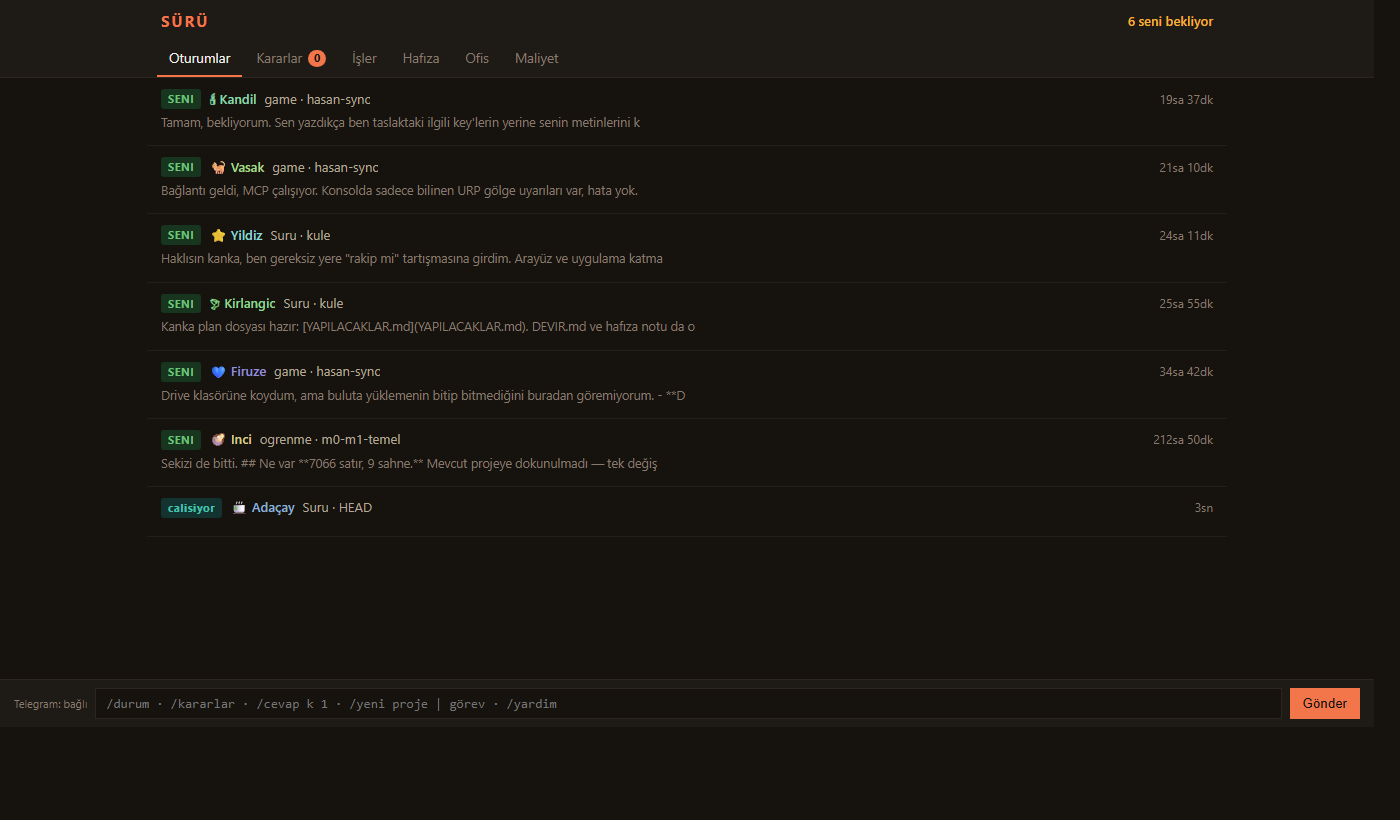
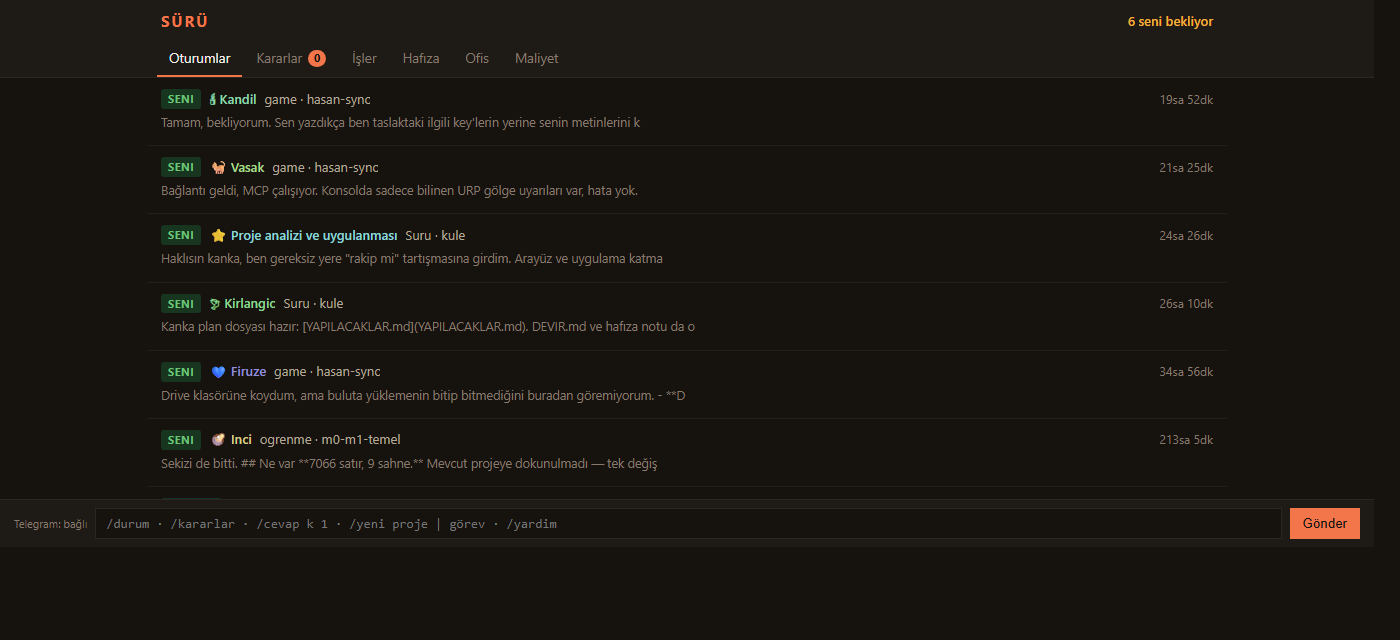
Ajan adi gorevden: is adi / oturum basligi, kadro adi yedek
- kisilik.js: gorevEtiketi, ajanKimligi({isAd,hedefAd,baslik}), kimlikCoz(db), basligiAnlamli
- tum tuketiciler kimlikCoz kullaniyor; simge ve renk kadrodan
- ofis: masa etiketinde proje oneki atilir; komuta: ajan · is tekrari kaldirildi
- 404 test, panel/ofis ekran goruntuleri yenilendi

diff --git a/src/kisilik.js b/src/kisilik.js
@@ -87,9 +87,80 @@ export function kimlikAnahtari({ isId = null, sessionId = null } = {}) {
   return isId || sessionId || '';
 }
 
-/** Bir kosu/karar/olay icin dogru kimlik. */
-export function ajanKimligi(kaynak, secenekler) {
-  return kisilik(kimlikAnahtari(kaynak), secenekler);
+/**
+ * Gorev etiketi: ajanin adi yaptigi isten gelsin.
+ *
+ * Kadro adi (Kekik, Vasak...) rastgele; panelde "Vasak seni bekliyor" gorunce
+ * hangi is oldugunu hatirlamak icin ikinci bir bakis gerekiyordu. Etiket
+ * dogrudan isten: is adi varsa ondan, yoksa oturum basligindan. Kadro adi
+ * `takma` olarak kalir (simge ve renk zaten oradan).
+ *
+ *   'livedub-test-kapsami'  -> 'Livedub test kapsami'
+ *   '_denetci:<id>'          -> 'Denetçi · <hedef isin etiketi>'
+ *   '_damitma:livedub'       -> 'Damıtma · livedub'
+ *   (is yok, baslik var)     -> baslik, 34 karaktere kirpilmis
+ */
+const ETIKET_EN = 34;
+
+function slugAc(s) {
+  const t = String(s ?? '').replace(/[-_]+/g, ' ').replace(/\s+/g, ' ').trim();
+  return t ? t.charAt(0).toUpperCase() + t.slice(1) : '';
+}
+
+function kirp(s, n = ETIKET_EN) {
+  const t = String(s ?? '').replace(/\s+/g, ' ').trim();
+  return t.length > n ? t.slice(0, n - 1).trimEnd() + '…' : t;
+}
+
+export function gorevEtiketi({ isAd = null, hedefAd = null, baslik = null } = {}) {
+  const ad = String(isAd ?? '');
+  if (ad) {
+    const m = /^_denetci:(.+)$/.exec(ad);
+    if (m) return 'Denetçi · ' + (hedefAd ? kirp(slugAc(hedefAd), ETIKET_EN - 10) : m[1].slice(0, 6));
+    if (ad.startsWith('_damitma:')) return 'Damıtma · ' + kirp(ad.slice('_damitma:'.length), ETIKET_EN - 10);
+    return kirp(slugAc(ad));
+  }
+  if (basligiAnlamli(baslik)) return kirp(baslik);
+  return null;
+}
+
+/**
+ * Oturum basligi cogu zaman ilk mesajdan turetiliyor: "selam", "merhaba",
+ * "devam" gibi bir baslik isi anlatmaz, kadro adindan daha kotu bir etikettir.
+ * Kisa ya da selamlasma olan basliklar yok sayilir.
+ */
+const SELAM = /^(selam|merhaba|mrb|hey|hi|hello|kanka|abi|devam|test|deneme|naber|nasilsin|nasılsın)\b/i;
+export function basligiAnlamli(baslik) {
+  const t = String(baslik ?? '').replace(/\s+/g, ' ').trim();
+  if (t.length < 12) return false;
+  return !SELAM.test(t);
+}
+
+/**
+ * Bir kosu/karar/olay icin dogru kimlik.
+ * kaynak.isAd / hedefAd / baslik verilirse ad gorev etiketi olur, kadro adi
+ * `takma`ya iner. Verilmezse eski davranis: kadro kimligi oldugu gibi.
+ */
+export function ajanKimligi(kaynak = {}, secenekler) {
+  const k = kisilik(kimlikAnahtari(kaynak), secenekler);
+  const etiket = gorevEtiketi(kaynak);
+  return etiket ? { ...k, ad: etiket, takma: k.ad } : k;
+}
+
+/**
+ * Veritabanindan bakarak kimlik: is adi (denetci ise hedef isin adi) ve
+ * oturum basligi cozulur, sonra ajanKimligi. Sorgular kucuk; cagiran
+ * tarafta zaten is/oturum satiri varsa isAd/baslik dogrudan verilebilir.
+ */
+export function kimlikCoz(db, { isId = null, sessionId = null, isAd = null, baslik = null } = {}, secenekler) {
+  let ad = isAd, hedefAd = null, b = baslik;
+  try {
+    if (isId && !ad) ad = db.prepare('SELECT ad FROM isler WHERE id = ?').get(isId)?.ad ?? null;
+    const m = ad ? /^_denetci:(.+)$/.exec(ad) : null;
+    if (m) hedefAd = db.prepare('SELECT ad FROM isler WHERE id = ?').get(m[1])?.ad ?? null;
+    if (!ad && !b && sessionId) b = db.prepare('SELECT title FROM sessions WHERE session_id = ?').get(sessionId)?.title ?? null;
+  } catch { /* tablo yoksa (eski sema / test) kadro kimligine dus */ }
+  return ajanKimligi({ isId, sessionId, isAd: ad, hedefAd, baslik: b }, secenekler);
 }
 
 export const KADRO_BOYU = KADRO.length;

diff --git a/test/kisilik.test.js b/test/kisilik.test.js
@@ -1,6 +1,6 @@
 import { test } from 'node:test';
 import assert from 'node:assert/strict';
-import { kisilik, kadroCikar, ajanKimligi, kimlikAnahtari, KADRO_BOYU } from '../src/kisilik.js';
+import { kisilik, kadroCikar, ajanKimligi, kimlikAnahtari, gorevEtiketi, basligiAnlamli, KADRO_BOYU } from '../src/kisilik.js';
 
 test('ayni oturum her zaman ayni kimligi alir', () => {
   const a = kisilik('a3f9b2c1-0000-0000-0000-000000000001');
@@ -65,4 +65,40 @@ test('is yoksa oturum kimligi kullanilir', () => {
   assert.equal(kimlikAnahtari({ sessionId: 'o1' }), 'o1');
   assert.equal(kimlikAnahtari({ isId: 'i1', sessionId: 'o1' }), 'i1');
   assert.deepEqual(ajanKimligi({ sessionId: 'o1' }), kisilik('o1'));
+});
+
+// --- Gorev etiketi: ad isten gelir ---
+
+test('is adi varsa ajan adi gorev etiketi olur, kadro adi takmaya iner', () => {
+  const k = ajanKimligi({ isId: 'is-1', isAd: 'livedub-test-kapsami' });
+  assert.equal(k.ad, 'Livedub test kapsami');
+  assert.equal(k.takma, kisilik('is-1').ad);
+  assert.equal(k.simge, kisilik('is-1').simge, 'simge ve renk kadrodan kalir');
+});
+
+test('denetci ve damitma isleri rolunu ve hedefini soyler', () => {
+  assert.equal(ajanKimligi({ isId: 'd', isAd: '_denetci:abc', hedefAd: 'fin-logic-saglamlastir' }).ad,
+    'Denetçi · Fin logic saglamlastir');
+  assert.equal(ajanKimligi({ isId: 'd', isAd: '_damitma:livedub' }).ad, 'Damıtma · livedub');
+});
+
+test('is yoksa oturum basligi, o da yoksa kadro adi', () => {
+  const uzun = 'Profil README ve repo aciklamalarini iki dilde yeniden yaz';
+  const k = ajanKimligi({ sessionId: 'o1', baslik: uzun });
+  assert.ok(k.ad.length <= 34 && k.ad.endsWith('…'), 'uzun baslik kirpilir: ' + k.ad);
+  assert.equal(ajanKimligi({ sessionId: 'o1', baslik: '  ' }).ad, kisilik('o1').ad);
+});
+
+test('gorevEtiketi: etiket yoksa null', () => {
+  assert.equal(gorevEtiketi({}), null);
+  assert.equal(gorevEtiketi({ isAd: 'a_b-c' }), 'A b c');
+});
+
+test('selamlasma ya da cok kisa baslik etiket olmaz, kadro adina dusulur', () => {
+  // Saha: oturum basligi ilk mesajdan geliyor; panelde yedi tane "Selam" gorunmustu.
+  for (const b of ['Selam', 'merhaba kanka nasilsin', 'devam', 'Hello there, quick question']) {
+    assert.equal(basligiAnlamli(b), false, b);
+    assert.equal(ajanKimligi({ sessionId: 'o9', baslik: b }).ad, kisilik('o9').ad, b);
+  }
+  assert.equal(basligiAnlamli('Proje analizi ve uygulanmasi'), true);
 });

diff --git a/src/bildirim.js b/src/bildirim.js
@@ -10,7 +10,7 @@
 
 import { OLAY, oku as olayOku, yaz as olayYaz } from './events.js';
 import { kvOku, kvYaz } from './db.js';
-import { kisilik, ajanKimligi } from './kisilik.js';
+import { ajanKimligi, kimlikCoz } from './kisilik.js';
 
 const IMLEC = 'bildirim.imlec';
 
@@ -44,7 +44,9 @@ export function sessizMi(simdi, pencere) {
  * sonGonderim : Map<'oturum:durum', zaman> - soguma icin
  * Doner: { gonderilecek: [...], ozet: {...}|null, sonGonderim: guncellenmis Map }
  */
-export function kararVer(olaylar, { ayarlar, sonGonderim = new Map(), simdi = Date.now() } = {}) {
+export function kararVer(olaylar, { ayarlar, sonGonderim = new Map(), simdi = Date.now(),
+  // Kimlik cozucu: sunucu veritabanindan gorev etiketi verir; saf testlerde kadro kimligi.
+  kimlik = (o) => ajanKimligi({ isId: o.data?.isId, sessionId: o.sessionId }) } = {}) {
   const a = ayarlar.bildirim;
   const sogumaMs = a.sogumaDk * 60_000;
   const sessiz = sessizMi(simdi, a.sessizSaatler);
@@ -59,7 +61,7 @@ export function kararVer(olaylar, { ayarlar, sonGonderim = new Map(), simdi = Da
       const once = yeniSon.get(anahtar);
       if (once != null && simdi - once < sogumaMs) continue;
       yeniSon.set(anahtar, simdi);
-      const k = ajanKimligi({ isId: o.data?.isId, sessionId: o.sessionId });
+      const k = kimlik(o);
       gonderilecek.push({
         seq: o.seq, at: o.at, sessionId: o.sessionId, durum: 'karar', onem: 'acil',
         // Kanal dugme kurabilsin diye (Telegram): karari tek dokunusla cevaplamak.
@@ -85,7 +87,7 @@ export function kararVer(olaylar, { ayarlar, sonGonderim = new Map(), simdi = Da
     if (once != null && simdi - once < sogumaMs) continue;
     yeniSon.set(anahtar, simdi);
 
-    const k = kisilik(o.sessionId);
+    const k = kimlik(o);
     const govdeParcalari = [ETIKET[durum] ?? durum];
     if (o.data?.arac) govdeParcalari.push('arac: ' + o.data.arac);
     if (o.data?.kesin === false && (durum === 'onay-bekliyor' || durum === 'takildi')) {
@@ -159,6 +161,7 @@ export class Bildirimci {
     const simdi = this.simdi();
     const { gonderilecek, ozet, sonGonderim } = kararVer(olaylar, {
       ayarlar: this.ayarlar, sonGonderim: this.sonGonderim, simdi,
+      kimlik: (o) => kimlikCoz(this.db, { isId: o.data?.isId, sessionId: o.sessionId }),
     });
     this.sonGonderim = sonGonderim;
 

diff --git a/src/server.js b/src/server.js
@@ -13,7 +13,7 @@ import { PROJECTS_DIR, DB_PATH, JETON_YOLU, VERI_DIZINI, veriDizini } from './pa
 import { ayarlariOku, AYAR_YOLU } from './config.js';
 import { kanalKur, kararlarTelegramaDa } from './kanallar.js';
 import { Bildirimci } from './bildirim.js';
-import { kadroCikar } from './kisilik.js';
+import { kadroCikar, kimlikCoz } from './kisilik.js';
 import { Kuyruk } from './kuyruk.js';
 import { isEkle, isListesi, isSil, kosular, hayaletleriKapat, isGetir, yetimIcIsleriSil } from './isler.js';
 import { kararlariTazele, bekleyenKararlar, kararKarti, cevapla, iptalEt, kabulEt, kapsamGenislet, planUygula } from './eskalasyon.js';
@@ -373,12 +373,20 @@ async function tara() {
   const suruKosusu = new Map();
   try {
     const kimlikler = JSON.stringify(anlik.map((x) => x.sessionId));
-    for (const r of db.prepare(`SELECT session_id, is_id FROM kosular
-        WHERE session_id IN (SELECT value FROM json_each(?))`).all(kimlikler)) {
-      suruKosusu.set(r.session_id, r.is_id);
+    for (const r of db.prepare(`SELECT k.session_id, k.is_id, i.ad is_ad FROM kosular k LEFT JOIN isler i ON i.id = k.is_id
+        WHERE k.session_id IN (SELECT value FROM json_each(?))`).all(kimlikler)) {
+      suruKosusu.set(r.session_id, { isId: r.is_id, isAd: r.is_ad ?? null });
     }
   } catch { /* eslesme kurulamadi: oturumlar yine gorunur, sadece ikilenebilir */ }
-  const cikti = anlik.map((x) => kucult(x, kadro.get(x.sessionId), suruKosusu.get(x.sessionId)))
+  // Ad gorevden: Suru'nun kosturdugu oturumda is adi, elle acilmis oturumda baslik.
+  // Ikisi de yoksa kadro adi (cakisma eki ile) - eski davranis.
+  const kimlikSec = (x) => {
+    const is = suruKosusu.get(x.sessionId);
+    if (is?.isAd) return kimlikCoz(db, { isId: is.isId, sessionId: x.sessionId, isAd: is.isAd });
+    if (x.baslik && String(x.baslik).trim()) return kimlikCoz(db, { sessionId: x.sessionId, baslik: x.baslik });
+    return kadro.get(x.sessionId);
+  };
+  const cikti = anlik.map((x) => kucult(x, kimlikSec(x), suruKosusu.get(x.sessionId)?.isId ?? null))
     .sort((a, b) => (ONCELIK[a.d] ?? 9) - (ONCELIK[b.d] ?? 9) || b.z - a.z);
 
   const yeni = JSON.stringify(cikti);

diff --git a/src/komuta.html b/src/komuta.html
@@ -303,7 +303,7 @@ function satirEl(s,kimlikli){
   d.appendChild(el('span','z',saat(s.at)));
   if(kimlikli){
     var k=kosular[s.kosu]||oturumdanKosu(s.oturum);
-    d.appendChild(el('span','kim',k?(k.ajan.simge+' '+k.ajan.ad+' · '+(k.is?k.is.ad:'?')):(s.proje||'sürü')));
+    d.appendChild(el('span','kim',k?(k.ajan.simge+' '+k.ajan.ad):(s.proje||'sürü')));
   }
   d.appendChild(el('span','m',s.metin));
   return d;
@@ -347,7 +347,7 @@ function bekleyenleriCiz(){
   kap.className=disarda.length?'var':'';
   disarda.forEach(function(id){
     var k=kosular[id], b=el('button','cip '+k.durum); b.type='button';
-    b.appendChild(el('b',null,k.ajan.simge+' '+k.ajan.ad)); b.appendChild(document.createTextNode(' · '+(k.is?k.is.ad:'?')+' · '+(DURUM[k.durum]||k.durum)));
+    b.appendChild(el('b',null,k.ajan.simge+' '+k.ajan.ad)); b.appendChild(document.createTextNode(' · '+(DURUM[k.durum]||k.durum)));
     b.title='masaya çağır'; b.onclick=function(){ masayaCagir(id); };
     kap.appendChild(b);
   });
@@ -522,7 +522,7 @@ function satirIsle(s){
   if(s.ses)cal(s.ses);
   var k=kosular[s.kosu]||oturumdanKosu(s.oturum);
   if(s.ses)konus(konusMetni(s,k),k);
-  if(s.ses==='karar'||s.ses==='hata')bildir((k?k.ajan.simge+' '+k.ajan.ad:'Sürü')+(k&&k.is?' · '+k.is.ad:''),s.metin);
+  if(s.ses==='karar'||s.ses==='hata')bildir((k?k.ajan.simge+' '+k.ajan.ad:'Sürü'),s.metin);
   if(k){
     k.satirlar.push(s); if(k.satirlar.length>200)k.satirlar.shift();
     if(s.ton==='arac')k.aracCanli=(k.aracCanli!=null?k.aracCanli:(k.aracSayisi||0))+1;

diff --git a/src/ofis.html b/src/ofis.html
@@ -172,6 +172,16 @@ function kisaProje(yol){
   return parca[parca.length-1]||t||'?';
 }
 
+// Masa etiketi: ajan zaten projenin odasinda, adin basindaki proje adi bilgi tasimaz.
+// 'Livedub test kapsami' -> LIVEDUB odasinda 'Test kapsami'. Masa 14 karakter gosterir.
+function odaAdi(ad, proje){
+  var a=String(ad||''), p=String(proje||'').toLowerCase().replace(/[-_]+/g,' ');
+  if(p && a.toLowerCase().indexOf(p+' ')===0){
+    var r=a.slice(p.length+1); return r? r.charAt(0).toUpperCase()+r.slice(1) : a;
+  }
+  return a;
+}
+
 function hash(s){ var h=0; for(var i=0;i<s.length;i++)h=(h*31+s.charCodeAt(i))|0; return Math.abs(h); }
 
 /* ---------- Yerlesim ----------
@@ -351,7 +361,7 @@ function yenile(){
       else if(son&&son.durum==='calisiyor')d='calisiyor';
       else if(son&&son.durum==='bekliyor')d='kuyrukta';
       else if(son&&son.durum==='karar-bekliyor')d='karar';
-      gelen['i:'+w.id]={ad:k.ajan.ad, simge:k.ajan.simge||'', hue:k.ajan.hue==null?200:k.ajan.hue,
+      gelen['i:'+w.id]={ad:odaAdi(k.ajan.ad, kisaProje(w.cwd)), simge:k.ajan.simge||'', hue:k.ajan.hue==null?200:k.ajan.hue,
         // Calisirken ne yaptigi, isin canli oturumundan gelir.
         durum:d, arac:(d==='calisiyor'&&suruOturumu[w.id])?(suruOturumu[w.id].a||null):null,
         proje:kisaProje(w.cwd), nerede:w.ad+' · '+w.profil,

diff --git a/src/komut.js b/src/komut.js
@@ -11,7 +11,7 @@
 import { basename } from 'node:path';
 import { bekleyenKararlar, kararKarti, cevapla, iptalEt, kabulEt, kapsamGenislet, planUygula } from './eskalasyon.js';
 import { isListesi, isGetir, isEkle, isSil, acikKosular, kosuGetir, KOSU_DURUMU } from './isler.js';
-import { ajanKimligi } from './kisilik.js';
+import { kimlikCoz } from './kisilik.js';
 import { insanOlgusu, insanOlgusuSil, kayitlar as hafizaKayitlari, HAFIZA_TURU, KAYNAK } from './hafiza.js';
 import { profilAl } from './yetki.js';
 import { kosuListesi, kosuAyrintisi } from './komuta.js';
@@ -176,8 +176,8 @@ export function durumMetni(db, kuyruk, { simdi = Date.now() } = {}) {
   satir.push('Sürü: ' + q.calisan + ' calisiyor, ' + q.bekleyen + ' bekliyor (sinir ' + q.esZamanli + ')');
   for (const k of acik) {
     const is = isGetir(db, k.isId);
-    const kim = ajanKimligi({ isId: k.isId, sessionId: k.sessionId });
-    satir.push('  ' + kim.simge + ' ' + kim.ad + ' · ' + (is?.ad ?? '?') + ' · ' + k.durum
+    const kim = kimlikCoz(db, { isId: k.isId, sessionId: k.sessionId, isAd: is?.ad ?? null });
+    satir.push('  ' + kim.simge + ' ' + kim.ad + ' · ' + k.durum
       + (k.durum === KOSU_DURUMU.CALISIYOR ? ' ' + sure(simdi - k.basladi) : '') + '  [' + kisa(k.id) + ']');
   }
   const kararlar = bekleyenKararlar(db);

diff --git a/src/bitti-bildirimi.js b/src/bitti-bildirimi.js
@@ -8,7 +8,7 @@
 
 import { basename } from 'node:path';
 import { kosuGetir, isGetir, KOSU_DURUMU } from './isler.js';
-import { ajanKimligi } from './kisilik.js';
+import { kimlikCoz } from './kisilik.js';
 
 const para = (u) => '$' + Number(u ?? 0).toFixed(2);
 const sure = (ms) => {
@@ -44,7 +44,7 @@ export function bittiMesaji(db, { kosuId }) {
   const son = db.prepare('SELECT * FROM kosular WHERE is_id = ? ORDER BY basladi DESC LIMIT 1').get(is.id);
   if (!son) return null;
   if (son.durum === KOSU_DURUMU.KARAR_BEKLIYOR) return null;
-  const kim = ajanKimligi({ isId: is.id, sessionId: son.session_id });
+  const kim = kimlikCoz(db, { isId: is.id, sessionId: son.session_id, isAd: is.ad });
   const toplam = db.prepare(`SELECT COALESCE(SUM(k.usd),0) usd, COUNT(*) n FROM kosular k JOIN isler i ON i.id = k.is_id
     WHERE (i.id = ? OR i.ad = ?) AND k.basladi >= ?`).get(is.id, '_denetci:' + is.id, son.basladi - 12 * 3600_000);
   const durum = son.durum === KOSU_DURUMU.BITTI ? (kosu.rol === 'denetci' || isKaydi.id !== is.id ? 'bitti, denetimden gecti' : 'bitti')

diff --git a/src/komuta.js b/src/komuta.js
@@ -10,7 +10,7 @@ import { basename } from 'node:path';
 import { OLAY, oku as olayOku, sonSeq } from './events.js';
 import { isGetir } from './isler.js';
 import { bekleyenKararlar, kararKarti } from './eskalasyon.js';
-import { ajanKimligi } from './kisilik.js';
+import { kimlikCoz } from './kisilik.js';
 import { anlat } from './anlati.js';
 
 const ACIK = ['bekliyor', 'calisiyor', 'karar-bekliyor'];
@@ -37,7 +37,7 @@ export function kosuListesi(db, { simdi = Date.now(), pencereMs = 6 * 3600_000, 
                COALESCE(k.bitti, k.basladi) DESC LIMIT ?`).all(simdi - pencereMs, enFazla);
   return satirlar.map((r) => {
     const is = isGetir(db, r.is_id);
-    const kim = ajanKimligi({ isId: r.is_id, sessionId: r.session_id });
+    const kim = kimlikCoz(db, { isId: r.is_id, sessionId: r.session_id, isAd: is?.ad ?? null });
     return {
       id: r.id, oturum: r.session_id, durum: r.durum, canli: ACIK.includes(r.durum),
       basladi: r.basladi, bitti: r.bitti ?? null, usd: r.usd ?? 0, model: r.model ?? is?.model ?? null,

diff --git a/src/gece-raporu.js b/src/gece-raporu.js
@@ -7,7 +7,7 @@
 // "hicbir sey olmadi" ile "rapor uretilemedi" ayni sey degil.
 
 import { OLAY, aralik } from './events.js';
-import { ajanKimligi } from './kisilik.js';
+import { kimlikCoz } from './kisilik.js';
 import { KOSU_DURUMU } from './isler.js';
 import { degerlendir as kotaDegerlendir } from './kota.js';
 
@@ -65,7 +65,7 @@ export function ozet(db, ayarlar, { baslangic, bitis = Date.now() } = {}) {
       .map(([arac, adet]) => ({ arac, adet })),
     // Her kosu icin tek satirlik ozet - ajanin kendi agzindan sonucu.
     satirlar: kosular.map((k) => ({
-      ajan: ajanKimligi({ isId: k.is_id, sessionId: k.session_id }),
+      ajan: kimlikCoz(db, { isId: k.is_id, sessionId: k.session_id, isAd: k.is_ad ?? null }),
       is: k.is_ad ?? '(silinmis is)',
       durum: k.durum,
       usd: Number(k.usd || 0),

diff --git a/src/eskalasyon.js b/src/eskalasyon.js
@@ -11,7 +11,7 @@
 import { randomUUID } from 'node:crypto';
 import { OLAY, yaz as olayYaz } from './events.js';
 import { kosuAc, kosuGetir, isGetir, KOSU_DURUMU } from './isler.js';
-import { ajanKimligi } from './kisilik.js';
+import { kimlikCoz } from './kisilik.js';
 import { profilAl } from './yetki.js';
 
 const NL = String.fromCharCode(10);
@@ -328,7 +328,7 @@ export function planUygula(db, kararId) {
 export function kararKarti(db, karar) {
   const is = isGetir(db, karar.isId);
   // Kimlik isten: ayni is hep ayni ajan tarafindan yapiliyormus gibi gorunsun.
-  const k = ajanKimligi({ isId: karar.isId, sessionId: karar.sessionId });
+  const k = kimlikCoz(db, { isId: karar.isId, sessionId: karar.sessionId, isAd: is?.ad ?? null });
   return {
     id: karar.id,
     tur: karar.tur,

diff --git a/src/karne.js b/src/karne.js
@@ -7,7 +7,7 @@
 // Kimlik ISTEN gelir (bkz. kisilik.js): ayni is hep ayni ajan gorunur, boylece
 // karne birikebilir.
 
-import { ajanKimligi } from './kisilik.js';
+import { kimlikCoz } from './kisilik.js';
 import { KOSU_DURUMU } from './isler.js';
 
 /** Basarili sayilan bitis durumlari. Karar bekleyen ne basari ne basarisizlik. */
@@ -99,7 +99,7 @@ export function isKarnesi(db, isId) {
     db.prepare('SELECT COUNT(*) n FROM kararlar WHERE is_id = ?').get(isId)?.n ?? 0);
 
   const k = karneHesapla(satirlar, { isId, kararSayisi });
-  k.ajan = ajanKimligi({ isId });
+  k.ajan = kimlikCoz(db, { isId, isAd: is?.ad ?? null });
   k.is = is ? { ad: is.ad, profil: is.profil, model: is.model } : null;
   return k;
 }
